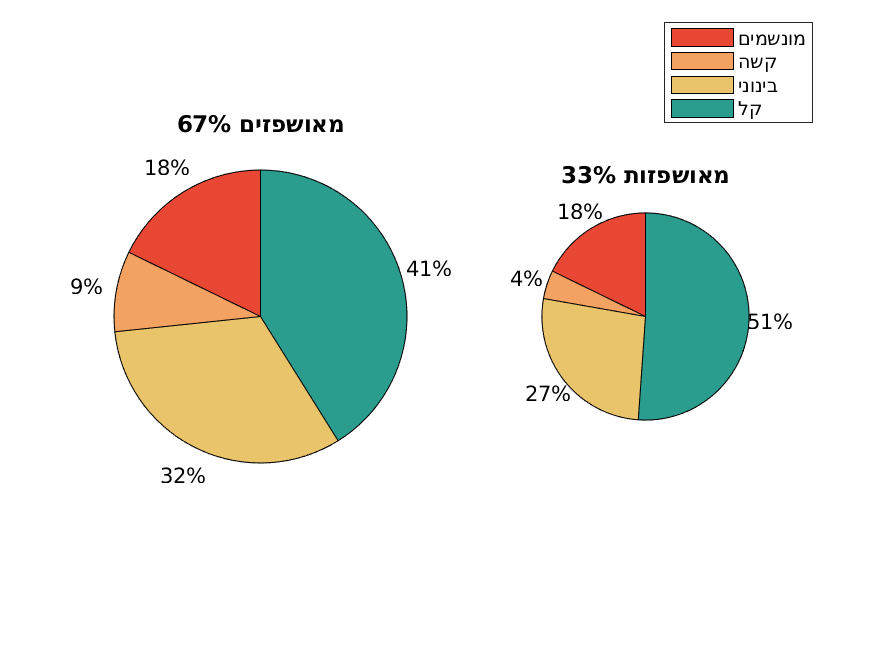
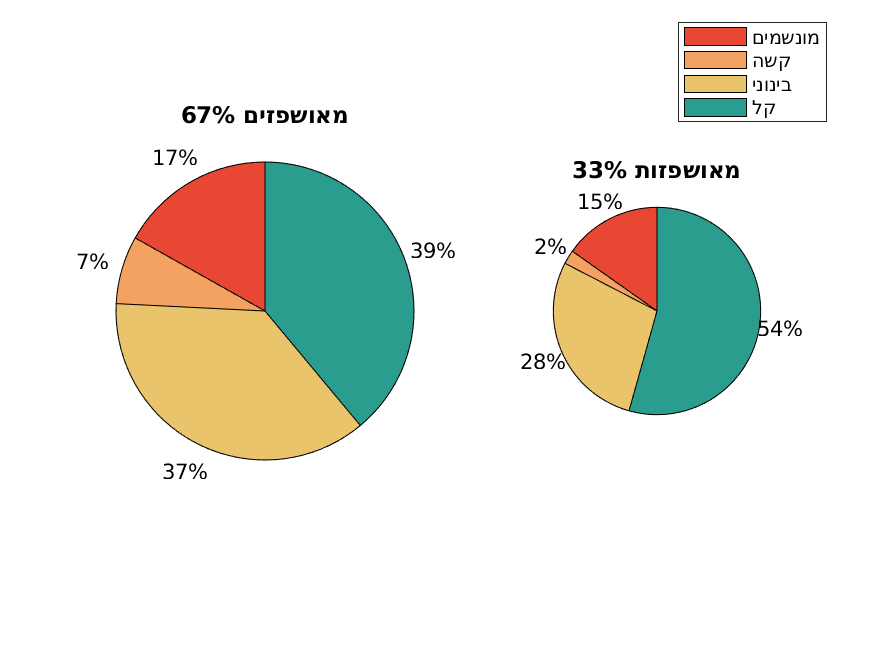
daily update

diff --git a/docs/myCountry.html b/docs/myCountry.html
@@ -120,10 +120,10 @@ body, h1,h2,h3,h4,h5,h6 {font-family: "Montserrat", sans-serif}
 <!-- Page Content -->
 <div class="w3-padding-large" id="main">
   <header class="w3-container w3-padding-32 w3-center w3-black" id="home">
-    <h1 class="w3-jumbo">מצב חולי הקורונה בישראל, 17.06.2020</h1>
+    <h1 class="w3-jumbo">מצב חולי הקורונה בישראל, 19.06.2020</h1>
     <h3 align="right"> כמה חולים במצב קשה, מונשמים ומתים מקורונה בכל יום. לא מוצגים נתונים לגבי מספר הנדבקים בקורונה מכיוון שהמספר תלוי במספר הבדיקות שנערכו והוא אינו משקף את מצב התחלואה האמיתי. מספר המתים ומספר המונשמים משקפים טוב יותר את המציאות, ומהם ניתן ללמוד על קצב התפשטות המחלה</h3><br>
-    <h4 align="right">מצב המונשמים - (בחמשת הימים האחרונים) כל יום יש כ 2 מונשמים יותר  </h4><br>
-    <h4 align="right">מצב התמותה - (בחמשת הימים האחרונים) כ 1 נפטרים ליום </h4><br>
+    <h4 align="right">מצב המונשמים - (בחמשת הימים האחרונים) כל יום יש כ 1 מונשמים יותר  </h4><br>
+    <h4 align="right">מצב התמותה - (בחמשת הימים האחרונים) כ 0 נפטרים ליום </h4><br>
     <img src="myCountry.png" alt="highest" class="w3-image" width="1600">
     <h4 align="right">מימין גרף הסוכם את כל המאושפזים. משמאל אותם הנתונים מוצגים עבור כל קבוצה בנפרד. הגרף מימין מוחלק כדי לראות טרנד כללי. משמאל קל יותר לראות שינויים קצרים, כמו המחזוריות השבועית במספר המאושפזים במצב קל </h4>
   </header>

diff --git a/docs/realigned.html b/docs/realigned.html
@@ -95,7 +95,7 @@ body, h1,h2,h3,h4,h5,h6 {font-family: "Montserrat", sans-serif}
 <div class="w3-padding-large" id="main">
   <!-- Header/Home -->
   <header class="w3-container w3-padding-32 w3-center w3-black" id="home">
-    <h1 class="w3-jumbo">Realigned curves, 17.06.2020</h1>
+    <h1 class="w3-jumbo">Realigned curves, 19.06.2020</h1>
     <h3> Deaths per million, realigned such that each country's time zero is when 1 death per million was reached. We see the top 20 countries, and we zoom in to see better the bottom half.</h3>
     <img src="realigned.png" alt="realigned" class="w3-image" width="1500">
   </header>

diff --git a/docs/highest_countries.html b/docs/highest_countries.html
@@ -95,7 +95,7 @@ body, h1,h2,h3,h4,h5,h6 {font-family: "Montserrat", sans-serif}
 <div class="w3-padding-large" id="main">
   <!-- Header/Home -->
   <header class="w3-container w3-padding-32 w3-center w3-black" id="home">
-    <h1 class="w3-jumbo">Most affected countries, 17.06.2020</h1>
+    <h1 class="w3-jumbo">Most affected countries, 19.06.2020</h1>
     <h3> Deaths, deaths per million and daily toll. Each plot shows the top 10 countries for the corresponding category.</h3>
     <img src="highest.png" alt="highest" class="w3-image" width="2851">
   </header>

diff --git a/code/covid_Israel_ministry.m b/code/covid_Israel_ministry.m
@@ -1,7 +1,7 @@
 function covid_Israel_ministry
 %% משרד הבריאות
 cd ~/covid-19_data_analysis/
-%% get history
+%% get hiSmallerory
 
 txt = urlread('https://govextra.gov.il/ministry-of-health/corona/corona-virus/');
 ext = '.csv';
@@ -17,8 +17,49 @@ end
 !awk -F'"' -v OFS='' '{ for (i=2; i<=NF; i+=2) gsub(",", "", $i) } 1' data/Israel/covid19-data-israel.csv >> data/Israel/tmp.csv
 movefile('data/Israel/tmp.csv','data/Israel/covid19-data-israel.csv')
 
-%%
-% ! google-chrome https://datadashboard.health.gov.il/COVID-19/?utm_source=go.gov.il&utm_medium=referral
-% pause(4)
-% ! gnome-screenshot -w -f dashboard.png
-% img = imread('dashboard.png');
+%% get control panel
+!google-chrome https://datadashboard.health.gov.il/COVID-19/?utm_source=go.gov.il&utm_medium=referral && sleep 5 && xdotool key ctrl+s && sleep 3 && xdotool key Return && sleep 3 && xdotool key Return
+%% process text
+cd ~/covid-19_data_analysis/
+list = readtable('data/Israel/Israel_ministry_of_health.csv');
+fid = fopen('/home/innereye/Downloads/קורונה - לוח בקרה.html', 'r');
+txt = fread(fid)';
+fclose(fid);
+txt = native2unicode(txt);
+vars = list.Properties.VariableNames(2:end);
+
+ta = strfind(txt,'total-amount');
+ta = ta(2+[1,3:5]);
+iVar = [1,4,3,2];
+iSmaller = strfind(txt,'<');
+misrad = nan(size(vars));
+for ii = 1:length(ta)
+    misrad(1,iVar(ii)) = str2num(strrep(txt(ta(ii)+14:iSmaller(find(iSmaller > ta(ii),1))-1),',',''));
+end
+marker = {
+        'קשה',39;...
+        'בינוני',42;...
+        '',nan;...
+        'בי"ח',40;...
+        'קהילה',48};
+
+for ii = 1:size(marker,1)
+    if ~isempty(marker{ii,1})
+        i0 = strfind(txt,marker{ii,1})+marker{ii,2};
+        i0 = i0(1);
+        i1 = iSmaller(find(iSmaller > i0,1))-1;
+        if ~strcmp(txt(i0-1),'>')
+            error('before the number there should be a ">"')
+        end
+        misrad(1,4+ii) = str2num(strrep(txt(i0:i1),',',''));
+    end
+end
+misrad(7) = misrad(1)-misrad(2)-misrad(3)-misrad(5)-misrad(6);
+idx = strfind(txt,'|');
+date = datetime(txt(idx+14:idx+18),'InputFormat','hh:mm');
+newRow = table(date);
+for iV = 1:length(vars)
+    eval(['newRow.',vars{iV},' = misrad(iV);'])
+end
+list(end+1,:) = newRow;
+nanwritetable(list);

diff --git a/docs/README.md b/docs/README.md
@@ -17,7 +17,7 @@ For the 10 most affected countries by different criteria click [here](highest_co
 Realigned curves for top 20 countries [here](realigned.html)<br>
 To compare Israel to other countries [here](myCountry.html)<br>
 Stay safe     ![falafel](W3CSSTemplateFiles/falafel_trans.png)
-### Last updated for 17.06.2020
+### Last updated for 19.06.2020
 ### Acknowledgements
 The COVID-19 data is taken from the John Hopkins COVID-19 database. The data can be found [here](https://github.com/CSSEGISandData/COVID-19).<br>
 Spain has a drop in total deaths (25-May-2020) because of [data cleaning](https://english.elpais.com/society/2020-05-26/spanish-health-ministry-lowers-coronavirus-death-toll-by-nearly-2000.html). Regions of spain death tolls are provided by [datadista](https://github.com/datadista/datasets/blob/master/COVID%2019/ccaa_covid19_fallecidos.csv).<br>
